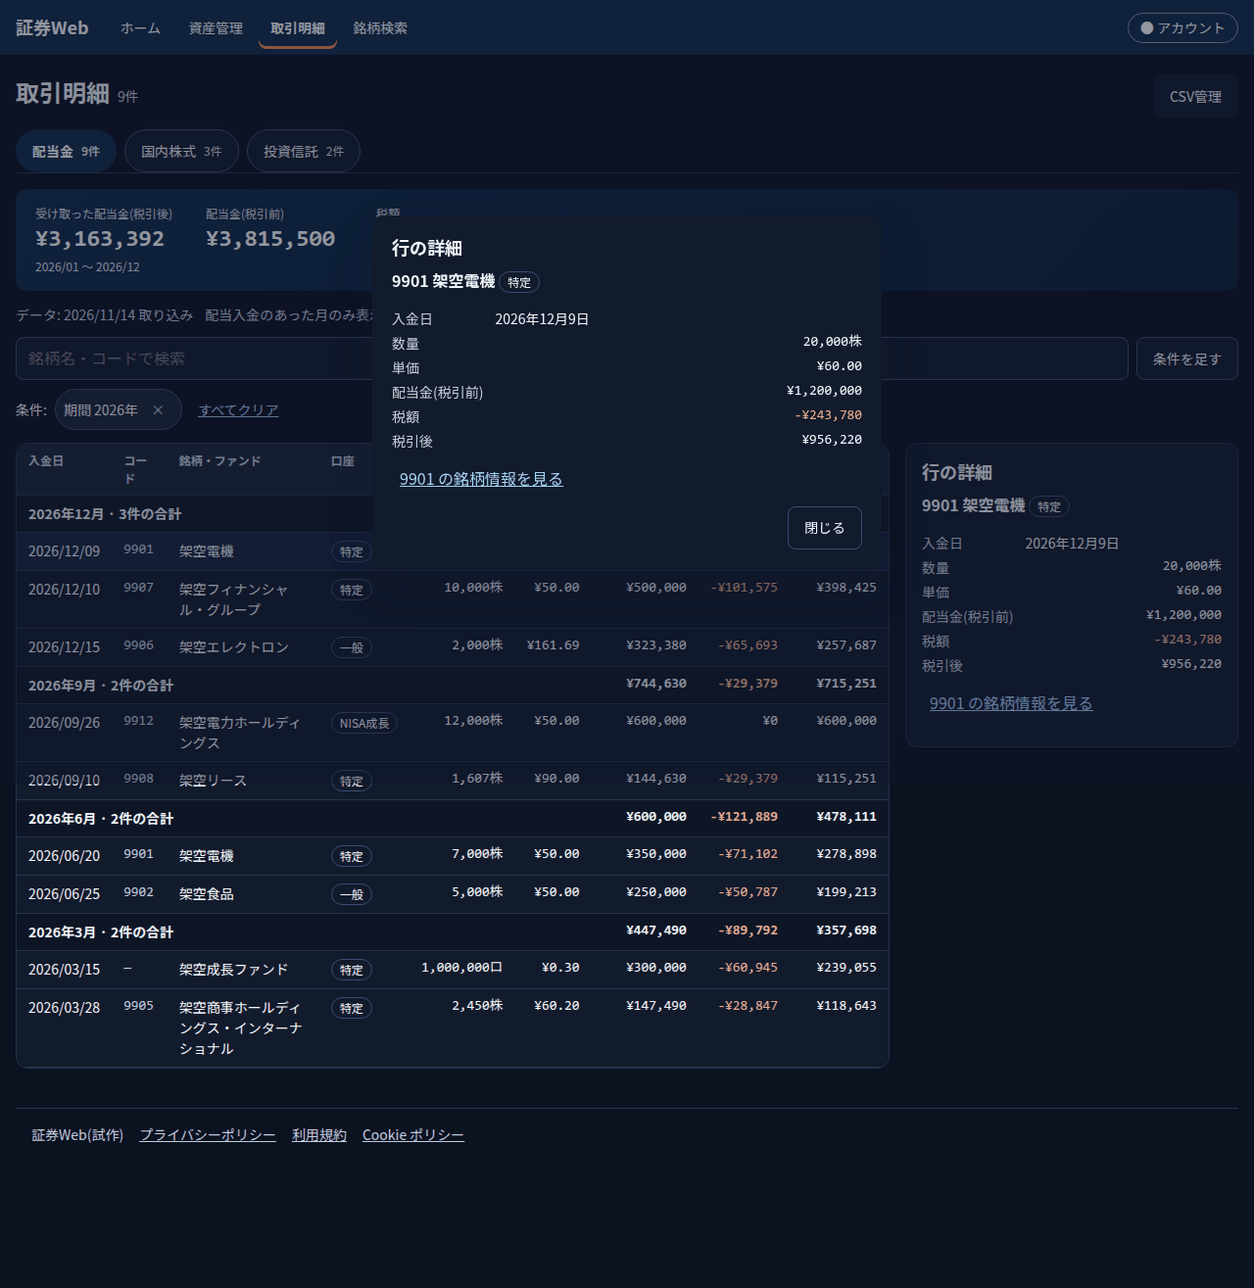
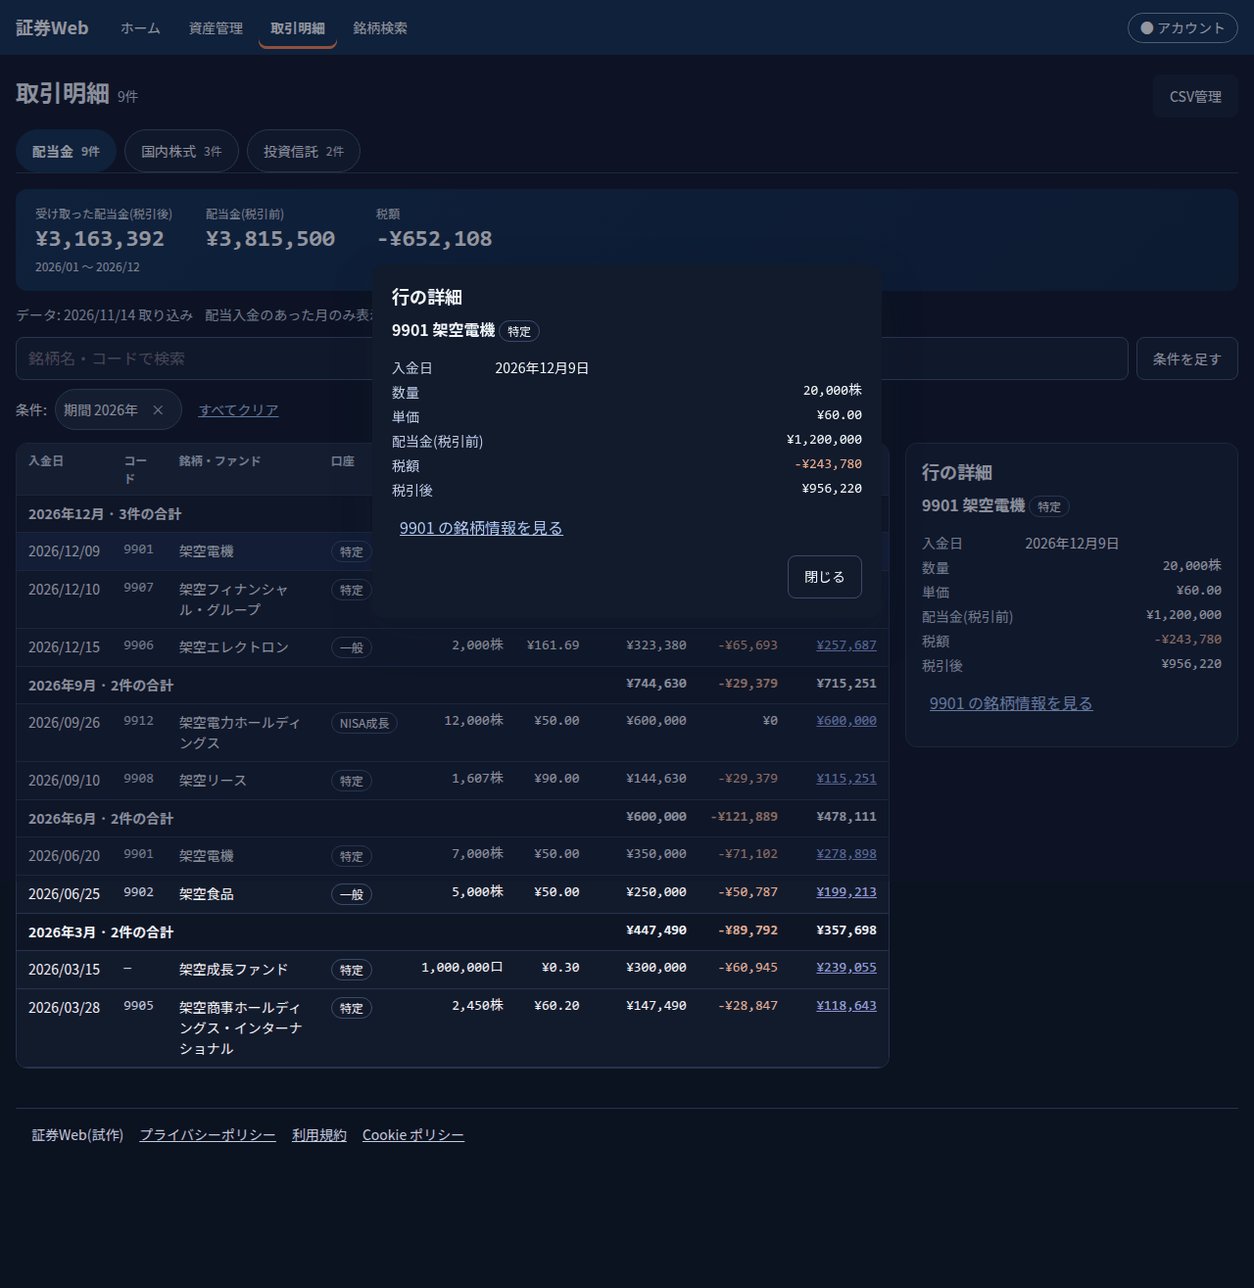
fix: 配当の行詳細シートを行ごとに分離
スマホで 12/09 以外の配当をタップしても #rcpt-d1 が開く問題を修正。
#rcpt-d1〜d9 の 9 シートを行ごとに対応付け(スマホ全 9 行・PC全 9 行の
税引後リンク)。シート内も数量×単価=金額・金額−税額=税引後が合う値を設定。
data-check.md に 9 シートの検算表を追加し影響ショット 3 枚を再撮影(各 120KB 以下)。

diff --git a/docs/design/work/phase5-opencode/html/receipts-opencode.html b/docs/design/work/phase5-opencode/html/receipts-opencode.html
@@ -91,33 +91,33 @@
           <tbody>
             <tr class="grp"><td colspan="6">2026年12月 · 3件の合計</td><td class="num">¥2,023,380</td><td class="num neg">-¥411,048</td><td class="num">¥1,612,332</td></tr>
             <tr aria-selected="true"><td>2026/12/09</td><td class="code">9901</td><td>架空電機</td><td><span class="badge">特定</span></td><td class="num">20,000株</td><td class="num">¥60.00</td><td class="num">¥1,200,000</td><td class="num neg">-¥243,780</td><td class="num"><a href="#rcpt-d1">¥956,220</a></td></tr>
-            <tr><td>2026/12/10</td><td class="code">9907</td><td>架空フィナンシャル・グループ</td><td><span class="badge">特定</span></td><td class="num">10,000株</td><td class="num">¥50.00</td><td class="num">¥500,000</td><td class="num neg">-¥101,575</td><td class="num">¥398,425</td></tr>
-            <tr><td>2026/12/15</td><td class="code">9906</td><td>架空エレクトロン</td><td><span class="badge">一般</span></td><td class="num">2,000株</td><td class="num">¥161.69</td><td class="num">¥323,380</td><td class="num neg">-¥65,693</td><td class="num">¥257,687</td></tr>
+            <tr><td>2026/12/10</td><td class="code">9907</td><td>架空フィナンシャル・グループ</td><td><span class="badge">特定</span></td><td class="num">10,000株</td><td class="num">¥50.00</td><td class="num">¥500,000</td><td class="num neg">-¥101,575</td><td class="num"><a href="#rcpt-d2">¥398,425</a></td></tr>
+            <tr><td>2026/12/15</td><td class="code">9906</td><td>架空エレクトロン</td><td><span class="badge">一般</span></td><td class="num">2,000株</td><td class="num">¥161.69</td><td class="num">¥323,380</td><td class="num neg">-¥65,693</td><td class="num"><a href="#rcpt-d3">¥257,687</a></td></tr>
             <tr class="grp"><td colspan="6">2026年9月 · 2件の合計</td><td class="num">¥744,630</td><td class="num neg">-¥29,379</td><td class="num">¥715,251</td></tr>
-            <tr><td>2026/09/26</td><td class="code">9912</td><td>架空電力ホールディングス</td><td><span class="badge">NISA成長</span></td><td class="num">12,000株</td><td class="num">¥50.00</td><td class="num">¥600,000</td><td class="num zero">¥0</td><td class="num">¥600,000</td></tr>
-            <tr><td>2026/09/10</td><td class="code">9908</td><td>架空リース</td><td><span class="badge">特定</span></td><td class="num">1,607株</td><td class="num">¥90.00</td><td class="num">¥144,630</td><td class="num neg">-¥29,379</td><td class="num">¥115,251</td></tr>
+            <tr><td>2026/09/26</td><td class="code">9912</td><td>架空電力ホールディングス</td><td><span class="badge">NISA成長</span></td><td class="num">12,000株</td><td class="num">¥50.00</td><td class="num">¥600,000</td><td class="num zero">¥0</td><td class="num"><a href="#rcpt-d4">¥600,000</a></td></tr>
+            <tr><td>2026/09/10</td><td class="code">9908</td><td>架空リース</td><td><span class="badge">特定</span></td><td class="num">1,607株</td><td class="num">¥90.00</td><td class="num">¥144,630</td><td class="num neg">-¥29,379</td><td class="num"><a href="#rcpt-d5">¥115,251</a></td></tr>
             <tr class="grp"><td colspan="6">2026年6月 · 2件の合計</td><td class="num">¥600,000</td><td class="num neg">-¥121,889</td><td class="num">¥478,111</td></tr>
-            <tr><td>2026/06/20</td><td class="code">9901</td><td>架空電機</td><td><span class="badge">特定</span></td><td class="num">7,000株</td><td class="num">¥50.00</td><td class="num">¥350,000</td><td class="num neg">-¥71,102</td><td class="num">¥278,898</td></tr>
-            <tr><td>2026/06/25</td><td class="code">9902</td><td>架空食品</td><td><span class="badge">一般</span></td><td class="num">5,000株</td><td class="num">¥50.00</td><td class="num">¥250,000</td><td class="num neg">-¥50,787</td><td class="num">¥199,213</td></tr>
+            <tr><td>2026/06/20</td><td class="code">9901</td><td>架空電機</td><td><span class="badge">特定</span></td><td class="num">7,000株</td><td class="num">¥50.00</td><td class="num">¥350,000</td><td class="num neg">-¥71,102</td><td class="num"><a href="#rcpt-d6">¥278,898</a></td></tr>
+            <tr><td>2026/06/25</td><td class="code">9902</td><td>架空食品</td><td><span class="badge">一般</span></td><td class="num">5,000株</td><td class="num">¥50.00</td><td class="num">¥250,000</td><td class="num neg">-¥50,787</td><td class="num"><a href="#rcpt-d7">¥199,213</a></td></tr>
             <tr class="grp"><td colspan="6">2026年3月 · 2件の合計</td><td class="num">¥447,490</td><td class="num neg">-¥89,792</td><td class="num">¥357,698</td></tr>
-            <tr><td>2026/03/15</td><td class="code">—</td><td>架空成長ファンド</td><td><span class="badge">特定</span></td><td class="num">1,000,000口</td><td class="num">¥0.30</td><td class="num">¥300,000</td><td class="num neg">-¥60,945</td><td class="num">¥239,055</td></tr>
-            <tr><td>2026/03/28</td><td class="code">9905</td><td class="long">架空商事ホールディングス・インターナショナル</td><td><span class="badge">特定</span></td><td class="num">2,450株</td><td class="num">¥60.20</td><td class="num">¥147,490</td><td class="num neg">-¥28,847</td><td class="num">¥118,643</td></tr>
+            <tr><td>2026/03/15</td><td class="code">—</td><td>架空成長ファンド</td><td><span class="badge">特定</span></td><td class="num">1,000,000口</td><td class="num">¥0.30</td><td class="num">¥300,000</td><td class="num neg">-¥60,945</td><td class="num"><a href="#rcpt-d8">¥239,055</a></td></tr>
+            <tr><td>2026/03/28</td><td class="code">9905</td><td class="long">架空商事ホールディングス・インターナショナル</td><td><span class="badge">特定</span></td><td class="num">2,450株</td><td class="num">¥60.20</td><td class="num">¥147,490</td><td class="num neg">-¥28,847</td><td class="num"><a href="#rcpt-d9">¥118,643</a></td></tr>
           </tbody>
         </table></div>
         <ul class="mrows only-sp" aria-label="配当金の一覧">
           <li class="mgrp">2026年12月 · 3件 <span class="sub">受取 ¥1,612,332</span></li>
           <li><a class="rowlink" href="#rcpt-d1" aria-label="12/09 架空電機の詳細を見る"><div class="r1"><span class="t">12/09 架空電機</span><span class="amt">¥956,220</span></div><div class="r2"><span>特定 · 税引前 ¥1,200,000</span><span>9901</span></div></a></li>
-          <li><a class="rowlink" href="#rcpt-d1" aria-label="12/10 架空フィナンシャル・グループの詳細を見る"><div class="r1"><span class="t">12/10 架空フィナンシャル・グループ</span><span class="amt">¥398,425</span></div><div class="r2"><span>特定 · 税引前 ¥500,000</span><span>9907</span></div></a></li>
-          <li><a class="rowlink" href="#rcpt-d1" aria-label="12/15 架空エレクトロンの詳細を見る"><div class="r1"><span class="t">12/15 架空エレクトロン</span><span class="amt">¥257,687</span></div><div class="r2"><span>一般 · 税引前 ¥323,380</span><span>9906</span></div></a></li>
+          <li><a class="rowlink" href="#rcpt-d2" aria-label="12/10 架空フィナンシャル・グループの詳細を見る"><div class="r1"><span class="t">12/10 架空フィナンシャル・グループ</span><span class="amt">¥398,425</span></div><div class="r2"><span>特定 · 税引前 ¥500,000</span><span>9907</span></div></a></li>
+          <li><a class="rowlink" href="#rcpt-d3" aria-label="12/15 架空エレクトロンの詳細を見る"><div class="r1"><span class="t">12/15 架空エレクトロン</span><span class="amt">¥257,687</span></div><div class="r2"><span>一般 · 税引前 ¥323,380</span><span>9906</span></div></a></li>
           <li class="mgrp">2026年9月 · 2件 <span class="sub">受取 ¥715,251</span></li>
-          <li><a class="rowlink" href="#rcpt-d1" aria-label="9/26 架空電力ホールディングスの詳細を見る"><div class="r1"><span class="t">9/26 架空電力ホールディングス</span><span class="amt">¥600,000</span></div><div class="r2"><span>NISA成長 · 非課税</span><span>9912</span></div></a></li>
-          <li><a class="rowlink" href="#rcpt-d1" aria-label="9/10 架空リースの詳細を見る"><div class="r1"><span class="t">9/10 架空リース</span><span class="amt">¥115,251</span></div><div class="r2"><span>特定 · 税引前 ¥144,630</span><span>9908</span></div></a></li>
+          <li><a class="rowlink" href="#rcpt-d4" aria-label="9/26 架空電力ホールディングスの詳細を見る"><div class="r1"><span class="t">9/26 架空電力ホールディングス</span><span class="amt">¥600,000</span></div><div class="r2"><span>NISA成長 · 非課税</span><span>9912</span></div></a></li>
+          <li><a class="rowlink" href="#rcpt-d5" aria-label="9/10 架空リースの詳細を見る"><div class="r1"><span class="t">9/10 架空リース</span><span class="amt">¥115,251</span></div><div class="r2"><span>特定 · 税引前 ¥144,630</span><span>9908</span></div></a></li>
           <li class="mgrp">2026年6月 · 2件 <span class="sub">受取 ¥478,111</span></li>
-          <li><a class="rowlink" href="#rcpt-d1" aria-label="6/20 架空電機の詳細を見る"><div class="r1"><span class="t">6/20 架空電機</span><span class="amt">¥278,898</span></div><div class="r2"><span>特定 · 税引前 ¥350,000</span><span>9901</span></div></a></li>
-          <li><a class="rowlink" href="#rcpt-d1" aria-label="6/25 架空食品の詳細を見る"><div class="r1"><span class="t">6/25 架空食品</span><span class="amt">¥199,213</span></div><div class="r2"><span>一般 · 税引前 ¥250,000</span><span>9902</span></div></a></li>
+          <li><a class="rowlink" href="#rcpt-d6" aria-label="6/20 架空電機の詳細を見る"><div class="r1"><span class="t">6/20 架空電機</span><span class="amt">¥278,898</span></div><div class="r2"><span>特定 · 税引前 ¥350,000</span><span>9901</span></div></a></li>
+          <li><a class="rowlink" href="#rcpt-d7" aria-label="6/25 架空食品の詳細を見る"><div class="r1"><span class="t">6/25 架空食品</span><span class="amt">¥199,213</span></div><div class="r2"><span>一般 · 税引前 ¥250,000</span><span>9902</span></div></a></li>
           <li class="mgrp">2026年3月 · 2件 <span class="sub">受取 ¥357,698</span></li>
-          <li><a class="rowlink" href="#rcpt-d1" aria-label="3/15 架空成長ファンドの詳細を見る"><div class="r1"><span class="t">3/15 架空成長ファンド</span><span class="amt">¥239,055</span></div><div class="r2"><span>特定 · 税引前 ¥300,000</span><span>分配金</span></div></a></li>
-          <li><a class="rowlink" href="#rcpt-d1" aria-label="3/28 架空商事ホールディングス・インターナショナルの詳細を見る"><div class="r1"><span class="t">3/28 架空商事ホールディングス・インターナショナル</span><span class="amt">¥118,643</span></div><div class="r2"><span>特定 · 税引前 ¥147,490</span><span>9905</span></div></a></li>
+          <li><a class="rowlink" href="#rcpt-d8" aria-label="3/15 架空成長ファンドの詳細を見る"><div class="r1"><span class="t">3/15 架空成長ファンド</span><span class="amt">¥239,055</span></div><div class="r2"><span>特定 · 税引前 ¥300,000</span><span>分配金</span></div></a></li>
+          <li><a class="rowlink" href="#rcpt-d9" aria-label="3/28 架空商事ホールディングス・インターナショナルの詳細を見る"><div class="r1"><span class="t">3/28 架空商事ホールディングス・インターナショナル</span><span class="amt">¥118,643</span></div><div class="r2"><span>特定 · 税引前 ¥147,490</span><span>9905</span></div></a></li>
         </ul>
       </div>
       <aside class="detail" aria-label="行の詳細">
@@ -253,6 +253,133 @@
       <dt>税引後</dt><dd>¥956,220</dd>
     </dl>
     <p><a class="linkish" href="#">9901 の銘柄情報を見る</a></p>
+    <div class="actions"><a class="btn" href="receipts-opencode.html">閉じる</a></div>
+  </div>
+</div>
+<div class="overlay" id="rcpt-d2" role="dialog" aria-modal="true" aria-labelledby="rcpt-d2-t">
+  <div class="dialog">
+    <h2 id="rcpt-d2-t">行の詳細</h2>
+    <p style="margin-top:0"><strong>9907 架空フィナンシャル・グループ</strong> <span class="badge">特定</span></p>
+    <dl class="kv">
+      <dt>入金日</dt><dd class="l">2026年12月10日</dd>
+      <dt>数量</dt><dd>10,000株</dd>
+      <dt>単価</dt><dd>¥50.00</dd>
+      <dt>配当金(税引前)</dt><dd>¥500,000</dd>
+      <dt>税額</dt><dd class="neg">-¥101,575</dd>
+      <dt>税引後</dt><dd>¥398,425</dd>
+    </dl>
+    <p><a class="linkish" href="#">9907 の銘柄情報を見る</a></p>
+    <div class="actions"><a class="btn" href="receipts-opencode.html">閉じる</a></div>
+  </div>
+</div>
+<div class="overlay" id="rcpt-d3" role="dialog" aria-modal="true" aria-labelledby="rcpt-d3-t">
+  <div class="dialog">
+    <h2 id="rcpt-d3-t">行の詳細</h2>
+    <p style="margin-top:0"><strong>9906 架空エレクトロン</strong> <span class="badge">一般</span></p>
+    <dl class="kv">
+      <dt>入金日</dt><dd class="l">2026年12月15日</dd>
+      <dt>数量</dt><dd>2,000株</dd>
+      <dt>単価</dt><dd>¥161.69</dd>
+      <dt>配当金(税引前)</dt><dd>¥323,380</dd>
+      <dt>税額</dt><dd class="neg">-¥65,693</dd>
+      <dt>税引後</dt><dd>¥257,687</dd>
+    </dl>
+    <p><a class="linkish" href="#">9906 の銘柄情報を見る</a></p>
+    <div class="actions"><a class="btn" href="receipts-opencode.html">閉じる</a></div>
+  </div>
+</div>
+<div class="overlay" id="rcpt-d4" role="dialog" aria-modal="true" aria-labelledby="rcpt-d4-t">
+  <div class="dialog">
+    <h2 id="rcpt-d4-t">行の詳細</h2>
+    <p style="margin-top:0"><strong>9912 架空電力ホールディングス</strong> <span class="badge">NISA成長</span></p>
+    <dl class="kv">
+      <dt>入金日</dt><dd class="l">2026年9月26日</dd>
+      <dt>数量</dt><dd>12,000株</dd>
+      <dt>単価</dt><dd>¥50.00</dd>
+      <dt>配当金(税引前)</dt><dd>¥600,000</dd>
+      <dt>税額</dt><dd class="zero">¥0</dd>
+      <dt>税引後</dt><dd>¥600,000</dd>
+    </dl>
+    <p><a class="linkish" href="#">9912 の銘柄情報を見る</a></p>
+    <div class="actions"><a class="btn" href="receipts-opencode.html">閉じる</a></div>
+  </div>
+</div>
+<div class="overlay" id="rcpt-d5" role="dialog" aria-modal="true" aria-labelledby="rcpt-d5-t">
+  <div class="dialog">
+    <h2 id="rcpt-d5-t">行の詳細</h2>
+    <p style="margin-top:0"><strong>9908 架空リース</strong> <span class="badge">特定</span></p>
+    <dl class="kv">
+      <dt>入金日</dt><dd class="l">2026年9月10日</dd>
+      <dt>数量</dt><dd>1,607株</dd>
+      <dt>単価</dt><dd>¥90.00</dd>
+      <dt>配当金(税引前)</dt><dd>¥144,630</dd>
+      <dt>税額</dt><dd class="neg">-¥29,379</dd>
+      <dt>税引後</dt><dd>¥115,251</dd>
+    </dl>
+    <p><a class="linkish" href="#">9908 の銘柄情報を見る</a></p>
+    <div class="actions"><a class="btn" href="receipts-opencode.html">閉じる</a></div>
+  </div>
+</div>
+<div class="overlay" id="rcpt-d6" role="dialog" aria-modal="true" aria-labelledby="rcpt-d6-t">
+  <div class="dialog">
+    <h2 id="rcpt-d6-t">行の詳細</h2>
+    <p style="margin-top:0"><strong>9901 架空電機</strong> <span class="badge">特定</span></p>
+    <dl class="kv">
+      <dt>入金日</dt><dd class="l">2026年6月20日</dd>
+      <dt>数量</dt><dd>7,000株</dd>
+      <dt>単価</dt><dd>¥50.00</dd>
+      <dt>配当金(税引前)</dt><dd>¥350,000</dd>
+      <dt>税額</dt><dd class="neg">-¥71,102</dd>
+      <dt>税引後</dt><dd>¥278,898</dd>
+    </dl>
+    <p><a class="linkish" href="#">9901 の銘柄情報を見る</a></p>
+    <div class="actions"><a class="btn" href="receipts-opencode.html">閉じる</a></div>
+  </div>
+</div>
+<div class="overlay" id="rcpt-d7" role="dialog" aria-modal="true" aria-labelledby="rcpt-d7-t">
+  <div class="dialog">
+    <h2 id="rcpt-d7-t">行の詳細</h2>
+    <p style="margin-top:0"><strong>9902 架空食品</strong> <span class="badge">一般</span></p>
+    <dl class="kv">
+      <dt>入金日</dt><dd class="l">2026年6月25日</dd>
+      <dt>数量</dt><dd>5,000株</dd>
+      <dt>単価</dt><dd>¥50.00</dd>
+      <dt>配当金(税引前)</dt><dd>¥250,000</dd>
+      <dt>税額</dt><dd class="neg">-¥50,787</dd>
+      <dt>税引後</dt><dd>¥199,213</dd>
+    </dl>
+    <p><a class="linkish" href="#">9902 の銘柄情報を見る</a></p>
+    <div class="actions"><a class="btn" href="receipts-opencode.html">閉じる</a></div>
+  </div>
+</div>
+<div class="overlay" id="rcpt-d8" role="dialog" aria-modal="true" aria-labelledby="rcpt-d8-t">
+  <div class="dialog">
+    <h2 id="rcpt-d8-t">行の詳細</h2>
+    <p style="margin-top:0"><strong>架空成長ファンド</strong> <span class="badge">特定</span></p>
+    <dl class="kv">
+      <dt>入金日</dt><dd class="l">2026年3月15日</dd>
+      <dt>数量</dt><dd>1,000,000口</dd>
+      <dt>単価</dt><dd>¥0.30</dd>
+      <dt>配当金(税引前)</dt><dd>¥300,000</dd>
+      <dt>税額</dt><dd class="neg">-¥60,945</dd>
+      <dt>税引後</dt><dd>¥239,055</dd>
+    </dl>
+    <div class="actions"><a class="btn" href="receipts-opencode.html">閉じる</a></div>
+  </div>
+</div>
+<div class="overlay" id="rcpt-d9" role="dialog" aria-modal="true" aria-labelledby="rcpt-d9-t">
+  <div class="dialog">
+    <h2 id="rcpt-d9-t">行の詳細</h2>
+    <p style="margin-top:0"><strong>9905 架空商事ホールディングス・インターナショナル</strong> <span class="badge">特定</span></p>
+    <dl class="kv">
+      <dt>入金日</dt><dd class="l">2026年3月28日</dd>
+      <dt>数量</dt><dd>2,450株</dd>
+      <dt>単価</dt><dd>¥60.20</dd>
+      <dt>配当金(税引前)</dt><dd>¥147,490</dd>
+      <dt>税額</dt><dd class="neg">-¥28,847</dd>
+      <dt>税引後</dt><dd>¥118,643</dd>
+    </dl>
+    <p><a class="linkish" href="#">9905 の銘柄情報を見る</a></p>
     <div class="actions"><a class="btn" href="receipts-opencode.html">閉じる</a></div>
   </div>
 </div>

diff --git a/docs/design/work/phase5-opencode/data-check.md b/docs/design/work/phase5-opencode/data-check.md
@@ -48,6 +48,22 @@
 
 月小計(各月 1 件): 7月 +¥159,370 / 4月 +¥478,110。年合計: 税引前 +¥800,000、税額 −¥162,520、税引後 +¥637,480。いずれも行の合計と一致。
 
+## スマホ/PC 行詳細シート(9 件)
+
+各行のリンク先とシートの中身が一致することを確認。シート内の数量×単価=金額、金額−税額=税引後も全行 OK。
+
+| シート | 対象行 | リンク元 | 入金日 | 数量×単価 | 金額−税額 | 判定 |
+|---|---|---|---|---|---|---|
+| #rcpt-d1 | 9901 架空電機 | PC税引後・スマホ12/09行 | 2026年12月9日 | 20,000×60.00=¥1,200,000 | 1,200,000−243,780=¥956,220 | OK |
+| #rcpt-d2 | 9907 架空フィナンシャル・グループ | PC税引後・スマホ12/10行 | 2026年12月10日 | 10,000×50.00=¥500,000 | 500,000−101,575=¥398,425 | OK |
+| #rcpt-d3 | 9906 架空エレクトロン | PC税引後・スマホ12/15行 | 2026年12月15日 | 2,000×161.69=¥323,380 | 323,380−65,693=¥257,687 | OK |
+| #rcpt-d4 | 9912 架空電力ホールディングス | PC税引後・スマホ9/26行 | 2026年9月26日 | 12,000×50.00=¥600,000 | 600,000−0=¥600,000 | OK |
+| #rcpt-d5 | 9908 架空リース | PC税引後・スマホ9/10行 | 2026年9月10日 | 1,607×90.00=¥144,630 | 144,630−29,379=¥115,251 | OK |
+| #rcpt-d6 | 9901 架空電機 | PC税引後・スマホ6/20行 | 2026年6月20日 | 7,000×50.00=¥350,000 | 350,000−71,102=¥278,898 | OK |
+| #rcpt-d7 | 9902 架空食品 | PC税引後・スマホ6/25行 | 2026年6月25日 | 5,000×50.00=¥250,000 | 250,000−50,787=¥199,213 | OK |
+| #rcpt-d8 | 架空成長ファンド | PC税引後・スマホ3/15行 | 2026年3月15日 | 1,000,000×0.30=¥300,000 | 300,000−60,945=¥239,055 | OK |
+| #rcpt-d9 | 9905 架空商事HD | PC税引後・スマホ3/28行 | 2026年3月28日 | 2,450×60.20=¥147,490 | 147,490−28,847=¥118,643 | OK |
+
 ## 修正履歴
 
 - 9908(架空リース): 1,607株 × ¥90.00 = ¥144,630 が正のため、金額 ¥144,660 → ¥144,630、税引後 ¥115,281 → ¥115,251 に修正(税額は据え置き)。9月小計・年合計・スマホ行・集計帯を連動修正。

diff --git a/docs/design/work/phase5-opencode/screens-status.md b/docs/design/work/phase5-opencode/screens-status.md
@@ -12,7 +12,7 @@
 |---|---|---|---|---|---|
 | 取引明細・配当金タブ(一覧・年/月グループ・集計帯) | 済み | ○ | ○ | RE-3(小計行「2026年12月 · 3件の合計」)、Codex-1(取込日は年付き)、Codex-4(詳細の項目順=表の列順) | shots/receipts-dividend-pc-light.png・shots/receipts-dividend-sp-light.png |
 | 取引明細・配当金タブ(条件パネル) | 済み | ○(ポップオーバー) | ○(シート) | Codex-1(期間・口座・商品。期間は下書き確定) | shots/receipts-dividend-cond-pc-light.png |
-| 取引明細・配当金タブ(行詳細) | 済み | ○(詳細パネル) | ○(シート: スマホ全 9 行をタップで #rcpt-d1) | RE-1(部分対応: スマホ行 2 段目に税引前の目安を追加。完全な内訳は詳細に集約) | shots/receipts-dividend-dialog-pc-dark.png(ダーク代表) |
+| 取引明細・配当金タブ(行詳細) | 済み | ○(詳細パネル) | ○(シート: 行ごと #rcpt-d1〜d9。スマホ全9行・PC全9行の税引後リンクが対応する行のシートを開く) | RE-1(部分対応: スマホ行 2 段目に税引前の目安を追加。完全な内訳は詳細に集約) | shots/receipts-dividend-dialog-pc-dark.png(ダーク代表) |
 | 取引明細・国内株式タブ | 済み | ○ | ○ | RE-3(月グループ小計)、X-4(右揃え・符号+色・欠測 —)。見出し件数はタブ選択で 3件に切替 | shots/receipts-stock-pc-light.png・shots/receipts-stock-sp-light.png |
 | 取引明細・投資信託タブ | 済み | ○ | ○ | RE-3、X-4。見出し件数はタブ選択で 2件に切替 | shots/receipts-fund-pc-light.png・shots/receipts-fund-sp-light.png |
 | CSV 管理(5 種類の表・取得カード・取込結果・部分失敗) | 済み | ○ | ○(2 段) | CSV-1(事実のみの状態文+時点を別項目)、Codex-6(状態名と時点を分離) | shots/csv-pc-light.png・shots/csv-sp-light.png |
